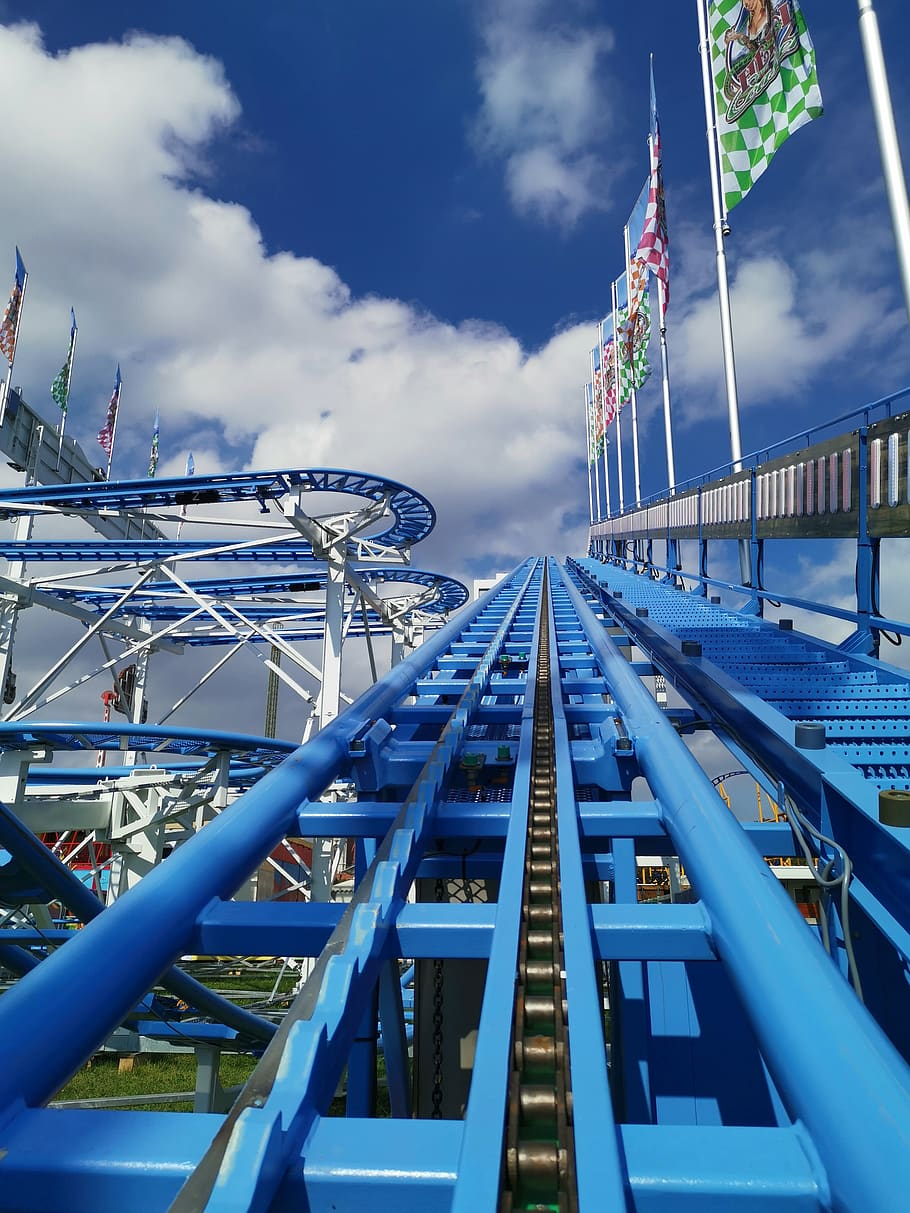
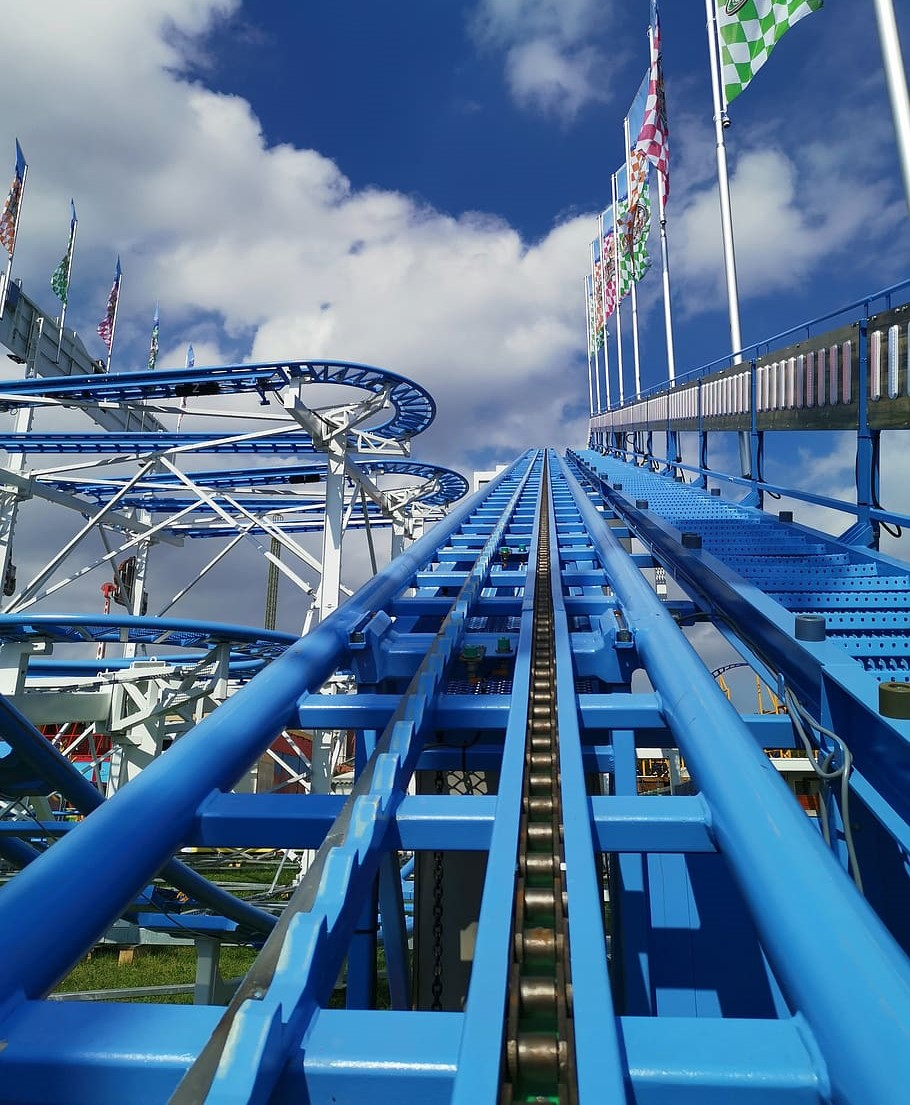
home page

diff --git a/wdd130/personal-site/styles/style.css b/wdd130/personal-site/styles/style.css
@@ -1,0 +1,127 @@
+/* grid-area, grid-template */
+@import url('https://fonts.googleapis.com/css2?family=Architects+Daughter&family=Open+Sans&display=swap');
+#content {
+    max-width: 1600px;
+    margin: 0 auto;
+}
+
+/* header */
+
+nav {
+    display: grid;
+    grid-template-columns: repeat(4, 1fr);
+    justify-items: center;
+    align-items: center;
+    font-size: 25px;
+}
+nav a {
+    text-decoration: none;
+    color: white;
+    padding: 35px;
+    transition: all 500ms;
+}
+nav a:hover {
+    font-size: 30px;
+}
+header {
+    display: grid;
+    grid-template-columns: 125px 1fr;
+    grid-template-rows: 100px;
+    background-color: #9A031E;
+    padding: 10px;
+}
+header img {
+    width: 100%;
+    height: 100%;
+    align-self: center;
+    transition: all 500ms;
+}
+header img:hover {
+    transform: scale(1.15);
+}
+
+/* body */
+
+#main-grid {
+    display: grid;
+    grid-template-columns: repeat(10, 151px);
+    column-gap: 10px;
+    row-gap: 15px;
+    margin: 15px auto;
+}
+h1 {
+    font-size: 50px;
+    text-align: center;
+}
+p {
+    text-align: center;
+    font-size: 35px;
+}
+.landing-card a, .impact-card a {
+    text-decoration: none;
+    text-align: center;
+    background-color: #E36414;
+    color: white;
+    font-size: 30px;
+    padding: 20px;
+    transition: all 500ms;
+}
+.landing-card a:hover, .impact-card a:hover {
+    font-size: 35px;
+    background-color: #FB8B24;
+}
+.landing-image {
+    grid-column: 1/8;
+    grid-row: 1/5;
+    width: 100%;
+}
+.landing-card {
+    grid-column: 8/11;
+    grid-row: 1/5;
+    background-color: #F8F0E3;
+    text-align: center;
+}
+.impact-image {
+    grid-column: 4/11;
+    grid-row: 6/10;
+    width: 100%;
+}
+.impact-card {
+    grid-column: 1/4;
+    grid-row: 6/10;
+    background-color: #F8F0E3;
+    text-align: center;
+}
+.map-image {
+    grid-column: 1/11;
+    grid-row: 11/15;
+    width: 100%;
+    transition: all 500ms;
+}
+.map-image:hover {
+    transform: scale(1.05);
+}
+
+/* footer */
+
+footer {
+    display: grid;
+    grid-template-columns: repeat(4, 1fr);
+    background-color: #9A031E;
+    justify-items: center;
+    align-items: center;
+    padding: 10px;
+}
+footer:nth-of-type(1) {
+    font-size: 15px;
+    text-align: center;
+}
+footer h3 a {
+    text-decoration: none;
+    color: white;
+    transition: all 500ms;
+    font-size: 25px;
+}
+footer a:hover {
+    font-size: 30px;
+}

diff --git a/wdd130/personal-site/index.html b/wdd130/personal-site/index.html
@@ -5,7 +5,7 @@
     <meta http-equiv="X-UA-Compatible" content="IE=edge">
     <meta name="viewport" content="width=device-width, initial-scale=1.0">
     <title>Tsunami Adventures | Home</title>
-    <link rel="stylesheet" href="css/style.css">
+    <link rel="stylesheet" href="styles/style.css">
 </head>
 <body> 
     <div id="content">
@@ -21,24 +21,23 @@
             </nav>
         </header>
         <main>
-            <img src="images/main-image.jpg" alt="home page picture">
-            <section class="landing-card">
-                <h1>Where Great Memories Are Made</h1>
-                <p>More Rides</p>
-                <p>More Fun</p>
-                <p>Less Money</p>
-                <a class="buytickets" href="buytickets.html">Buy Tickets</a>
-            </section>
-            <img src="images/another-picture.jpg" alt="second picture">
-            <section class="impact-card">
-                <h1>Where Your Mood Can Only Go Up</h1>
-                <p>Come find out why we are rated the top amusement park for 3 years in a row.</p>
-                <a class="whyus" href="whyus.html">Why Us?</a>
-            </section>
-            <img src="images/site-map.jpg" alt="site map">
-            <section class="map-options">
-                <a class="maplink" href="#">Full View Map</a>
-            </section>
+            <div id="main-grid">
+                <img src="images/main-image.jpg" class="landing-image" alt="home page picture">
+                <section class="landing-card">
+                    <h1>Where Great Memories Are Made</h1>
+                    <p>More Rides.</p>
+                    <p>More Fun.</p>
+                    <p>Less Money.</p>
+                    <a class="buytickets" href="buytickets.html">Buy Tickets</a>
+                </section>
+                <img src="images/another-picture2.jpg" class="impact-image" alt="second picture">
+                <section class="impact-card">
+                    <h1>Where Your Mood Can Only Go Up</h1>
+                    <p>Come find out why we are rated the top amusement park for 3 years in a row.</p>
+                    <a class="whyus" href="whyus.html">Why Us?</a>
+                </section>
+                <img class="map-image" src="images/site-map.jpg"  alt="site map">
+            </div>
         </main>
         <footer>
             <h3>Tsunami Adventures &copy; 2021 - Austin Nelson</h3>

diff --git a/wdd130/personal-site/buytickets.html b/wdd130/personal-site/buytickets.html
@@ -5,7 +5,7 @@
     <meta http-equiv="X-UA-Compatible" content="IE=edge">
     <meta name="viewport" content="width=device-width, initial-scale=1.0">
     <title>Buy Tickets | Tsunami Adventures</title>
-    <link rel="stylesheet" href="css/style.css">
+    <link rel="stylesheet" href="styles/style.css">
 </head>
 <body> 
     <div id="content">

diff --git a/wdd130/personal-site/whyus.html b/wdd130/personal-site/whyus.html
@@ -5,7 +5,7 @@
     <meta http-equiv="X-UA-Compatible" content="IE=edge">
     <meta name="viewport" content="width=device-width, initial-scale=1.0">
     <title>Why Us? | Tsunami Adventures</title>
-    <link rel="stylesheet" href="css/style.css">
+    <link rel="stylesheet" href="styles/style.css">
 </head>
 <body> 
     <div id="content">
